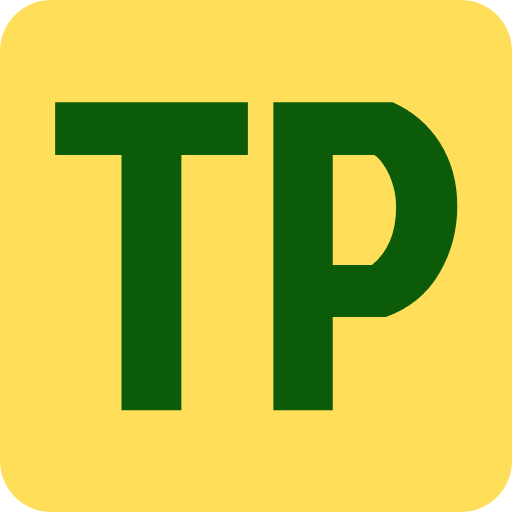
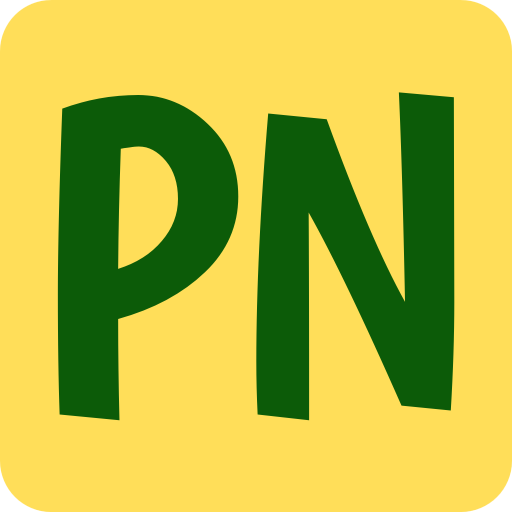
feat: porch night conversion

Changed region(s): [[0.0938, 0.1562, 0.9062, 0.8438]]

diff --git a/src/pages/_app.tsx b/src/pages/_app.tsx
@@ -25,9 +25,9 @@ export default function App({ Component, pageProps }: AppPropsWithLayout) {
 		: (
 			<BaseLayout><Component {...pageProps} /></BaseLayout>
 		);
-	const title = 'Tiny Porch Concerts | Richmond, VA';
-	const description = 'Tiny Porch Concerts is a local grassroots concert series hosted in the Woodland Heights Neighborhood of Richmond, VA. Featuring 3 Host Porches, 6 incredible groups of performers, and promising an evening filled with neighborhood camaraderie, this event embodies the spirit of unity and togetherness.';
-	const imageHref = 'https://tinyporchconcerts.org/tinyporchbanner-yellow.png';
+	const title = 'Porch Night | Richmond, VA';
+	const description = 'Porch Night is a local grassroots concert series hosted in the Woodland Heights Neighborhood of Richmond, VA. Featuring 3 Host Porches, 6 incredible groups of performers, and promising an evening filled with neighborhood camaraderie, this event embodies the spirit of unity and togetherness.';
+	const imageHref = 'https://porchnight.org/porchnight-banner-yellow.png';
 	return (
 		<ChakraProvider theme={theme}>
 			<Head>

diff --git a/src/pages/faq.tsx b/src/pages/faq.tsx
@@ -7,9 +7,9 @@ function Faq({ entries }: { entries: FaqEntry[] }) {
 	return (
 		<>
 			<Head>
-				<title>FAQ | Tiny Porch Concerts</title>
-				<meta property="og:title" content="FAQ | Tiny Porch Concerts"/>
-				<meta name="twitter:title" content="FAQ | Tiny Porch Concerts" />
+				<title>FAQ | Porch Night</title>
+				<meta property="og:title" content="FAQ | Porch Night"/>
+				<meta name="twitter:title" content="FAQ | Porch Night" />
 			</Head>
 			<Flex
 				background='brand.blue'

diff --git a/src/pages/press.tsx b/src/pages/press.tsx
@@ -6,9 +6,9 @@ function Press() {
 	return (
 		<>
 			<Head>
-				<title>Press | Tiny Porch Concerts</title>
-				<meta property="og:title" content="Press | Tiny Porch Concerts"/>
-				<meta name="twitter:title" content="Press | Tiny Porch Concerts" />
+				<title>Press | Porch</title>
+				<meta property="og:title" content="Press | Porch Night"/>
+				<meta name="twitter:title" content="Press | Porch Night" />
 			</Head>
 			<Flex
 				background='brand.orange'

diff --git a/src/pages/index.tsx b/src/pages/index.tsx
@@ -30,7 +30,7 @@ function Home({ dates }: { dates: EventInfo[] }) {
 			});
 		}
 	}
-	const title = 'Tiny Porch Concerts | Richmond, VA';
+	const title = 'Porch Night | Richmond, VA';
 	return (
 		<>
 			<Script src="https://identity.netlify.com/v1/netlify-identity-widget.js" />

diff --git a/src/sections/about/index.tsx b/src/sections/about/index.tsx
@@ -56,7 +56,7 @@ function About() {
 						p={4}
 					>
 						<img
-							src='/images/uploads/tiny-porch-guitar-on-house.png'
+							src='/images/uploads/house-guitar-porch-night.png'
 							alt='Porch Guitar'
 							className='my-auto'
 						/>

diff --git a/src/sections/merch/components/MerchItem.tsx b/src/sections/merch/components/MerchItem.tsx
@@ -25,7 +25,7 @@ function MerchItem(props: MerchItemProps) {
 		image,
 		disabled,
 		link = '',
-		imageAlt = 'Tiny Porch Merchandise',
+		imageAlt = 'Porch Night Merchandise',
 		description = '',
 		index = 0,
 	} = props;

diff --git a/src/sections/hero/components/Header.tsx b/src/sections/hero/components/Header.tsx
@@ -19,7 +19,7 @@ export default function Hero() {
 				fontSize='7xl'
 				mt={{ base: 4, md: 0 }}
 			>
-				Tiny Porch
+				Porch Night
 			</Heading>
 			<Heading
 				as='h2'
